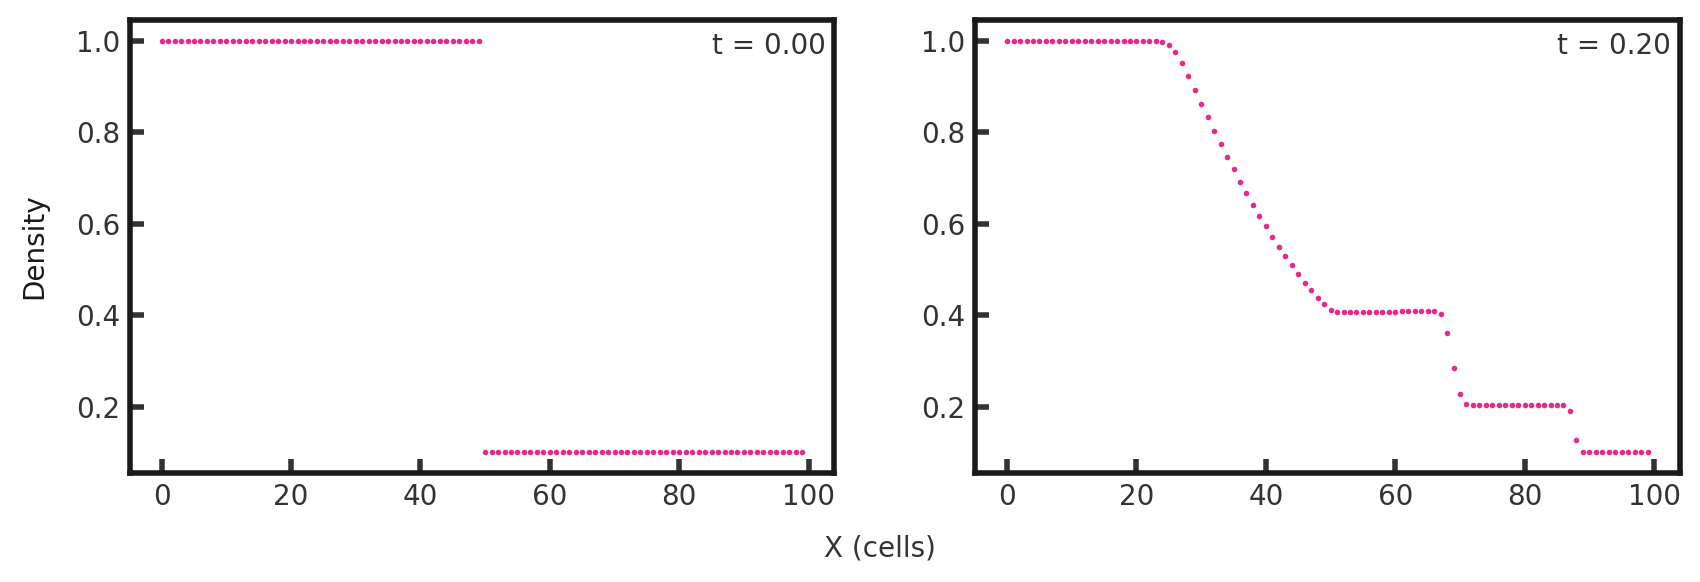
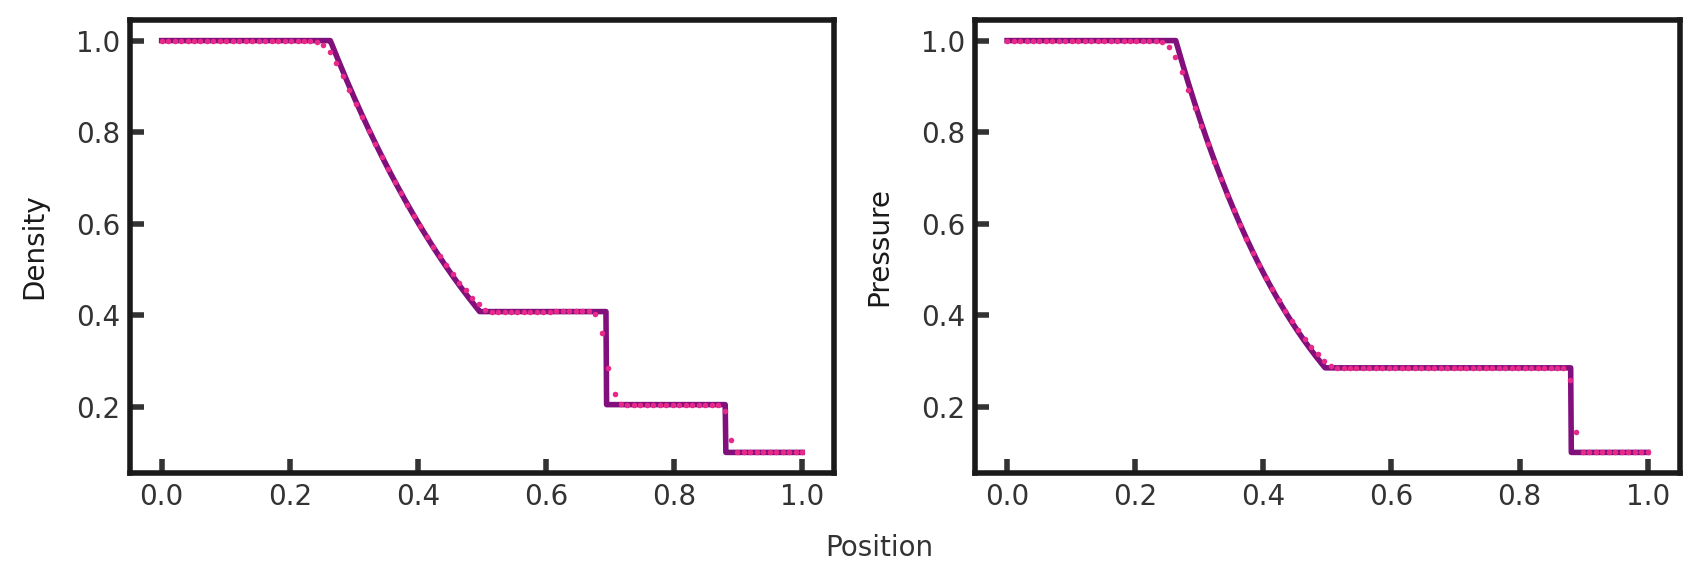
sod

diff --git a/3d_sod.md b/3d_sod.md
@@ -1,5 +1,5 @@
 # 3D Sod Shock Test
-Illustrates the ability of a code to resolve shocks and contact discontinuities over a narrow region. The test consists of two constant states (on left pressure and density are equal to 1; on right they are equal to 0.1) separated by a discontinuity at 0.5. Gamma is set to 1.4. This test is performed with the default hydro build (`cholla/builds/make.type.hydro`).
+Illustrates the ability of a code to resolve shocks and contact discontinuities over a narrow region. Parameters from Sod (1978). The test consists of two constant states (on left pressure and density are equal to 1; on right they are equal to 0.1) separated by a discontinuity at 0.5. Gamma is set to 1.4. This test is performed with the default hydro build (`cholla/builds/make.type.hydro`).
 ## Parameter file: (`cholla/examples/3D/sod.txt`)
 ```
 #
@@ -62,6 +62,6 @@ gamma=1.4
 ```
 Upon completion, you should obtain two output files. The initial and final densities (in code units) of a slice along the y-midplane is shown below. Examples of how to plot projections and slices can be found in `cholla/python_scripts/Projection_Slice_Tutorial.ipynb`.  
 <img src="./images/3dsod_density_xz.png" alt="Two 2D histograms side by side, showing density of cells in z direction vs cells in x direction. The leftmost is the initial density plot with a constant density of 1 throughout all 100 y cells between x-cells 0 through 50 and a constant density of 0.1 between x cells 0 through 100. The rightmost plot is the final density plot at t = 0.20 with a nonconstant density in x and constant density in z. A density of 1 transitions abruptly to a density 0.8 around x = 25 cells, then gradually lessens to 0.6 around x = 50 cells. An abrupt change occurs at x = 70 cells to a density of 0.3 and the final abrupt transition is at x = 90 cells to a density of 0.2" width="1200" />  
-A skewer in x along the y and z midplanes yields the traditional 1-dimension solution:  
-<img src="./images/3dsod_density_x.png" alt="Two scatter plots side by side of density vs cells in the x direction. The leftmost is the initial density plot with a density of 1 between x-cells 0 through 50 and a density of 0.1 between x cells 0 through 100. The rightmost plot is the final density plot at t = 0.20. A density of 1 transitions abruptly to a density 0.8 around x = 25 cells, then gradually lessens to 0.6 around x = 50 cells. An abrupt change occurs at x = 70 cells to a density of 0.3 and the final abrupt transition is at x = 90 cells to a density of 0.2" width="1200" />  
+A skewer in x along the y and z midplanes yields the traditional 1-dimension solution, shown below (pink dots) plotted over the exact solution (purple line).  
+<img src="./images/3dsod_density_x.png" alt="Two scatter plots side by side of density vs position and pressure vs position. The plots have pink dots plotted over a purple line. In all cases, the pink dots match the shape of the purple line, albeit imperfectly. The leftmost plot (density) shows a density of 1.0 for 0 \< x \< 0.2, then a continuous gradual decrease to a value of 0.4 at x = 0.5. Density remains constant until x = 0.7, then it jumps down abruptly to a value of 0.2. Density remains constant here until x = 0.9 where it makes a final jump to a value of 0.1, remaining at 0.1 for the final x values. The rightmost plot (final pressure) shows a pressure of 1.0 for 0 \< x \< 0.2, then a continuous gradual decrease to a value of 0.3 at x = 0.5. Pressure remains constant until x = 0.9 where it makes a jump to a value of 0.1, remaining at 0.1 for the final x values." width="1200" />  
 We can see a rarefaction wave on the left side, followed first by a contact discontinuity and then a shock.

diff --git a/1d_sod.md b/1d_sod.md
@@ -1,5 +1,5 @@
 # 1D Sod Shock Tube
-This test highlights the ability of a code to resolve shocks and contact discontinuities over a narrow region. Parameters from Sod (1978) The setup consists of a density and pressure of 1.0 for x \< 0 and 0.1 for x \> 0.5. Gamma is set to 1.4. This test was performed with the hydro build (`cholla/builds/make.type.hydro`). Full initial conditions can be found in `cholla/src/grid/initial_conditions.cpp`under `Riemann()`. 
+This test highlights the ability of a code to resolve shocks and contact discontinuities over a narrow region. Parameters from Sod (1978). The setup consists of a density and pressure of 1.0 for x \< 0 and 0.1 for x \> 0.5. Gamma is set to 1.4. This test was performed with the hydro build (`cholla/builds/make.type.hydro`). Full initial conditions can be found in `cholla/src/grid/initial_conditions.cpp`under `Riemann()`. 
 
 ## Parameter file: (`cholla/examples/1D/sod.txt`)
 ```
